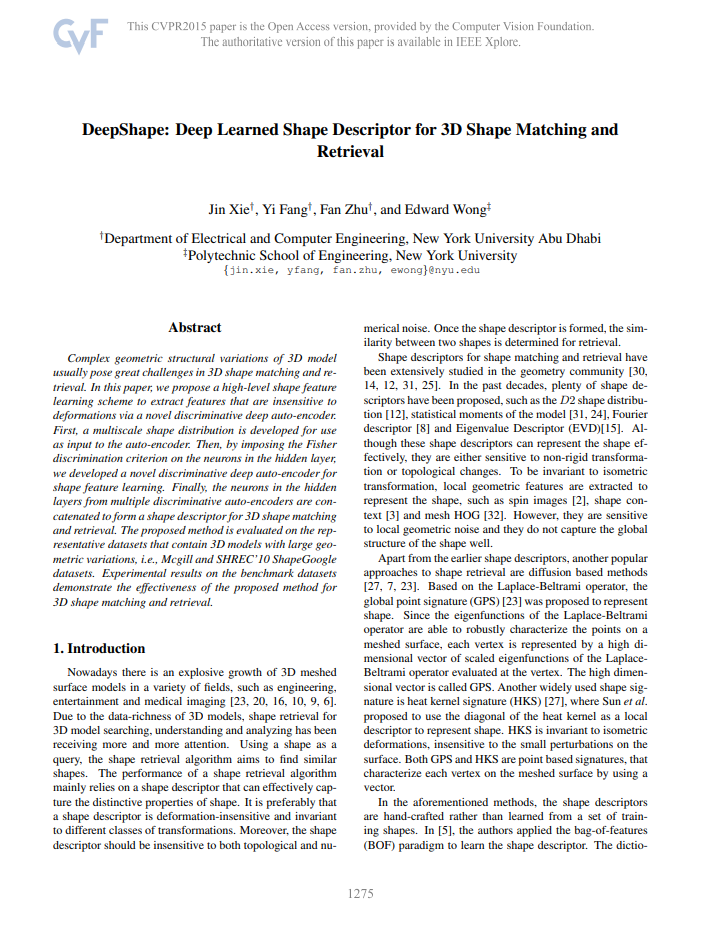
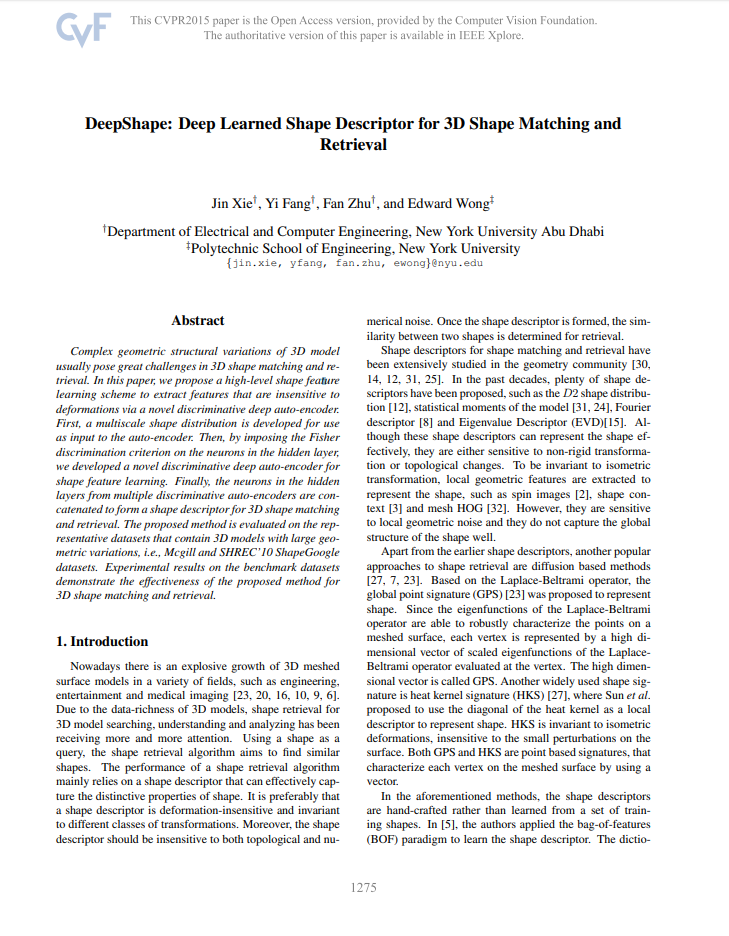
Modify Jin Xie 2015 paper

diff --git a/publications/2016/deepshape2016xie/index.html b/publications/2016/deepshape2016xie/index.html
@@ -190,15 +190,15 @@ demonstrate the effectiveness of the proposed method for 3D shape retrieval.
     <center><h1>Paper</h1></center>
     <tr>
         <td>
-            <a href="https://ieeexplore.ieee.org/stamp/stamp.jsp?tp=&arnumber=7526450" target="_blank">
+            <a href="http://openaccess.thecvf.com/content_cvpr_2015/papers/Xie_DeepShape_Deep_Learned_2015_CVPR_paper.pdf" target="_blank">
                 <img style="height:180px; border: solid; border-radius:30px;" src="./resources/paper.png"/>
             </a>
         </td>
         <td>
-            <span style="font-size:18px">Jin Xie, Guoxian Dai, Fan Zhu, Edward K.Wong, and Yi Fang
+            <span style="font-size:18px">Jin Xie, Yi Fang, Fan Zhu, and Edward Wong
                 <!-- <br> More authors <br> More authors -->
                 <br><br>
-                DeepShape: Deep-Learned Shape Descriptor for 3D Shape Retrieval
+                DeepShape: Deep Learned Shape Descriptor for 3D Shape Matching and Retrieval
                 <br><br>
                  CVPR, 2015
                 <br>
@@ -214,7 +214,7 @@ demonstrate the effectiveness of the proposed method for 3D shape retrieval.
         <td>
             <span style="font-size:18px">
                 <center>
-                    <a href="https://ieeexplore.ieee.org/stamp/stamp.jsp?tp=&arnumber=7526450">[Paper]</a>
+                    <a href="http://openaccess.thecvf.com/content_cvpr_2015/papers/Xie_DeepShape_Deep_Learned_2015_CVPR_paper.pdf">[Paper]</a>
                 </center>
             </span>
         </td>
